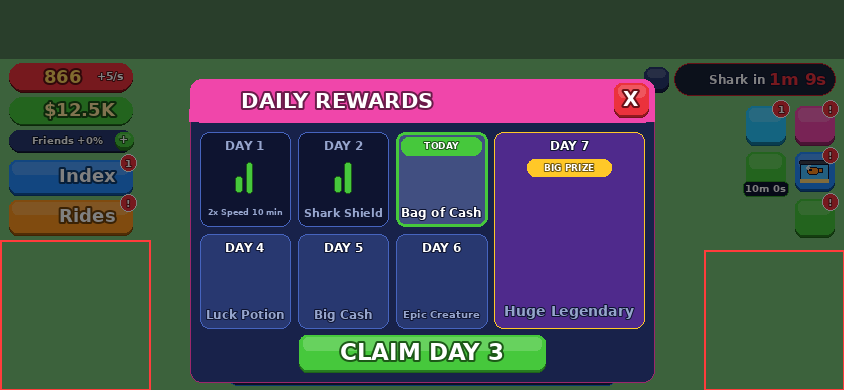
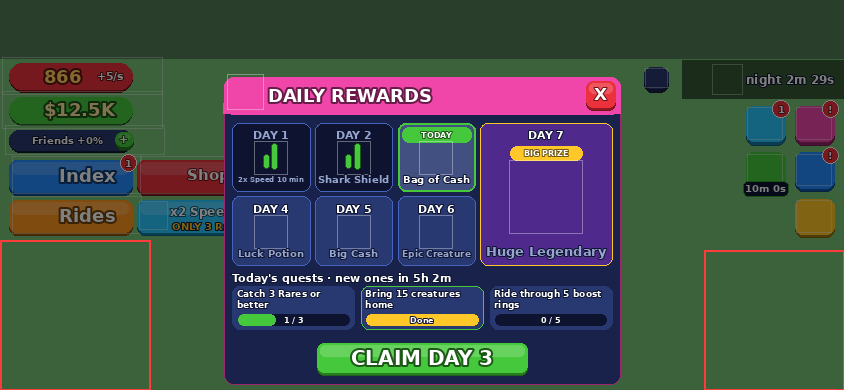
Daily quests + analytics for the plan's new systems
- 3 quests a day (midnight UTC) from a pool of 7, fed by the events every
  system already sends; each pays cash, all 3 add a Luck Potion. Shown
  under the Daily Rewards calendar, a banner when one is done
- Game.track now feeds a list of listeners (Analytics, Quests)
- Custom events: Chum, Raid start/stolen/defended, CloseCall, Reel
  start/won/slipped, BossReward, Quest (documented in ANALYTICS.md)
- Close calls were tracked twice: fixed

Claude-Session: https://claude.ai/code/session_016U2BGmH486bstMbB3DLGUL

diff --git a/tools/preview/ui.py b/tools/preview/ui.py
@@ -452,6 +452,9 @@ SAMPLE.creatures = {
 }
 SAMPLE.rebirths = 1
 SAMPLE.speed = 30000
+SAMPLE.quests = { { text = "Catch 3 Rares or better", n = 1, goal = 3 }, { text = "Bring 15 creatures home", n = 15, goal = 15 },
+	{ text = "Ride through 5 boost rings", n = 0, goal = 5 } }
+SAMPLE.questsReset = 5 * 3600 + 120
 """
 MENU_SCENES = {
     "index": 'require("cmod:Shop").start()\nrequire("cmod:Index").open()',

diff --git a/ANALYTICS.md b/ANALYTICS.md
@@ -74,10 +74,16 @@ One session per prompt: Prompted → Bought. The item is in custom field 1, and 
 |---|---|---|
 | SessionMinutes | Minutes; field 1 = new or returning | Track average session length. Target 15+ min for new players. |
 | SharkEaten | Field 1 = zone | Find where sharks are too hard. Compare with players per zone. |
-| GateBlocked | Field 1 = zone | Spot zone gates players bump into before they're ready. |
+| GateBlocked | Field 1 = zone | Players who rode into a zone below its recommended speed (its shark hunts them nonstop). Lots here = the recommended speed is too high, or the sign is unclear. |
 | Rebirth | Rebirth number | Count rebirths over time. |
 | DailyClaim | Day 1–7 | Day 7 claims ÷ Day 1 claims = your weekly retention hook. |
 | GroupChest | 1 | Count group-chest claims (each also asks them to join the group). |
+| Chum | 1 | Chum thrown. Near zero = the button isn't noticed; very high = it may feel unfair (watch SessionMinutes). |
+| RaidStart / RaidStolen / RaidDefended | 1 | Stolen ÷ Start should sit around 30-50%. Near 100% = owners can't get home in time (raise Config.Raid.time). |
+| CloseCall | 1 | How often the shark just misses. The chase is working when this is a few per session. |
+| ReelStart / ReelWon / ReelSlipped | 1 | Won ÷ Start for the Legendary reel. Aim for ~60%. Lower: widen the green band or slow the marker in Reel.luau. |
+| BossReward | 1 | Players who got a Legendary from the boss Megalodon. Compare with players online during Megalodon Hour. |
+| Quest | Field 1 = quest id | Which daily quests get finished. A quest nobody finishes needs a smaller goal. |
 
 ## Also check (built into Roblox, no code)
 

diff --git a/PLAN.md b/PLAN.md
@@ -53,10 +53,11 @@ serves that, in this order. `[x]` = built (not yet playtested), `[ ]` = to do.
       board and the codes card). Owner: add the code + raise `Config.LikeGoal`
 
 ## Phase 4: added
-- [ ] Daily quests (3 a day: catch 2 Rares, chum someone, survive a night)
+- [x] Daily quests (3 a day from a pool of 7: Rares, bring home, close calls,
+      dodges, rings, night catches, chum; cash each, Luck Potion for all 3)
 - [ ] Speed feel past the cap (wider FOV, stronger lines, wind)
 - [ ] Onboarding teaches night + grudges in one line each (no new steps)
-- [ ] Analytics: log chum, raids (start / defended / stolen), close calls,
+- [x] Analytics: log chum, raids (start / defended / stolen), close calls,
       Megalodon Hour joins, Legendary reel success rate
 - [ ] Rename + thumbnail around the shark, chum and raids (owner)
 - [ ] 10-15 short clips: close calls, chum betrayals, raids (owner)
